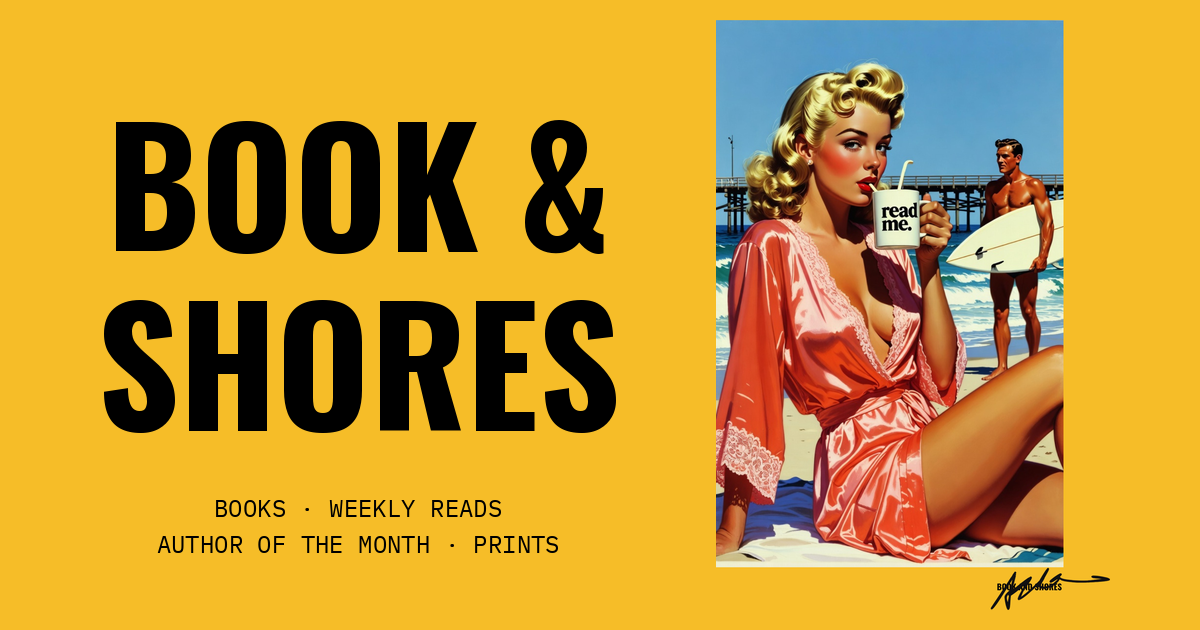
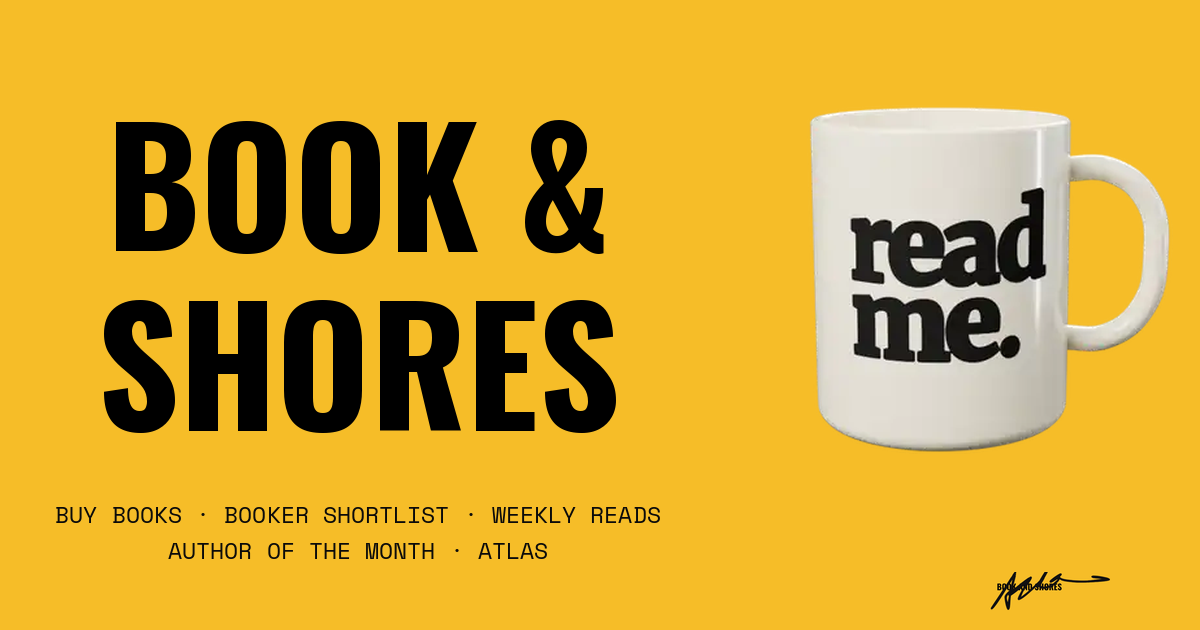
Link preview: yellow read me. mug, subtitle matches nav

Changed region(s): [[0.5858, 0.0302, 0.9867, 0.9048], [0.0308, 0.7841, 0.4625, 0.9048], [0.4933, 0.7841, 0.555, 0.8444]]

diff --git a/index.html b/index.html
@@ -13,7 +13,7 @@
     <link rel="canonical" href="https://bookandshores.com/">
     <meta property="og:type" content="website">
     <meta property="og:title" content="Book &amp; Shores | Books &amp; Prints | 2026">
-    <meta property="og:description" content="Curated books, Weekly Reads, Author of the Month and prints by Book &amp; Shores.">
+    <meta property="og:description" content="Buy Books, Booker Shortlist, Weekly Reads, Author of the Month and the Atlas by Book &amp; Shores.">
     <meta property="og:url" content="https://bookandshores.com/">
     <meta property="og:image" content="https://bookandshores.com/og-image.png">
     <meta name="twitter:card" content="summary_large_image">
